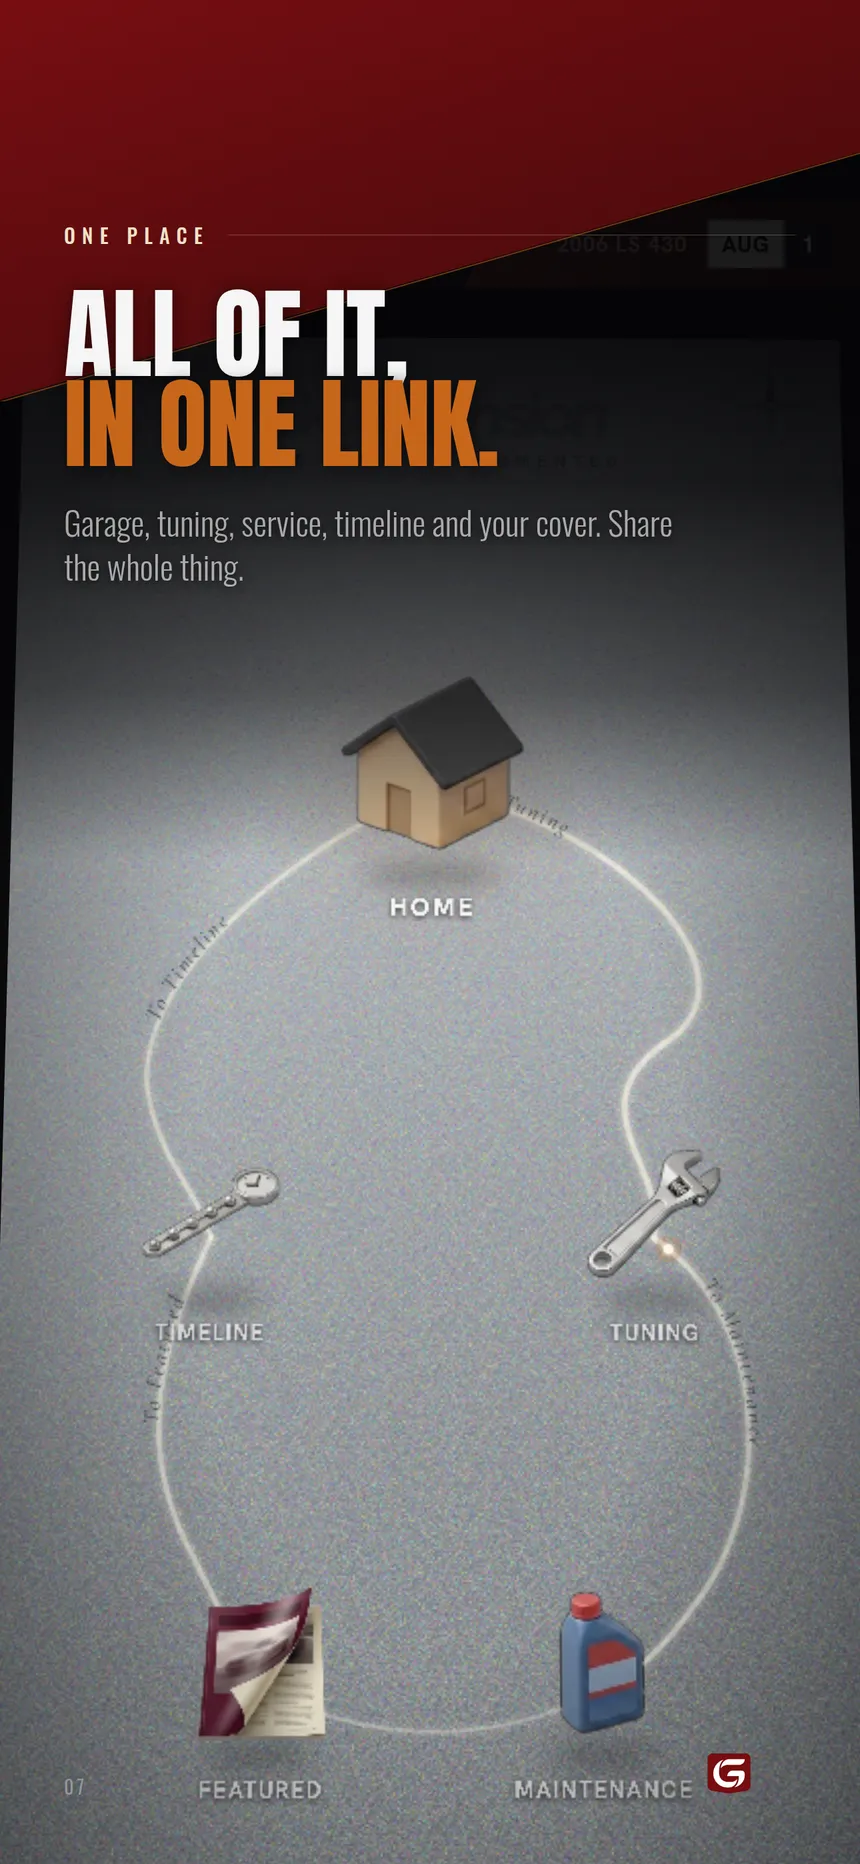
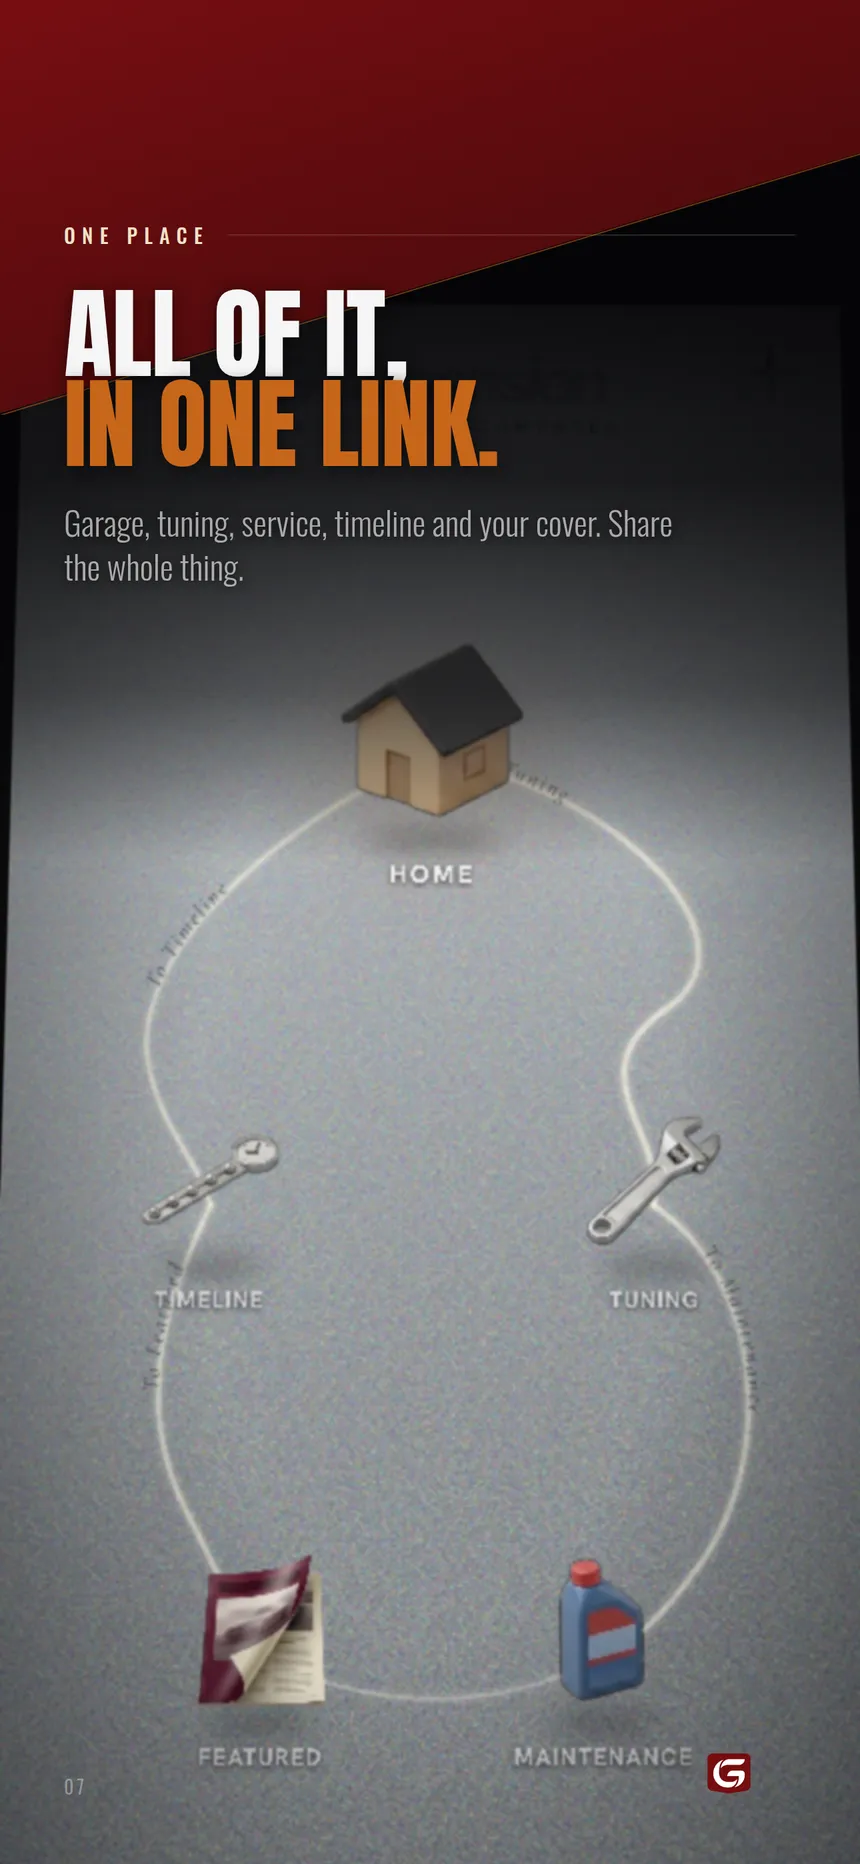
Store shots: one wedge geometry for the whole set, plus review fixes
The wedge is now a single fixed geometry in panel.css :root, with no per-panel
overrides. It used to vary on the theory that a "travelling" cut would tie the
run together; side by side, which is how the store actually shows them, that
just read as inconsistent. Anything that needs to dodge a busy corner now does
it with --shift on the artwork.

- 03 Service: art shifted DOWN so "+ Add Service" leaves the canvas. That also
  brought the app header down into view, where it poked out to the right of the
  wedge as a bright bar, so it is masked at z-index 1 (hidden behind the wedge
  on the left, reads as header darkness on the right). Same mask on 07.
- 04 Timeline: now the PUBLIC timeline, scrolled to the entry cards. The origin
  story was one long block of text; the cards show what the app actually keeps
  (mods, a detail, services, DIY guides), and the public route has no
  "+ Add Entry" button to design around. capture-store-shots.mjs gains scrollY,
  which finds the real scroll container rather than assuming the document.
- 06 Featured: the explanatory line moves ABOVE the cover photo, cut to one
  line at a smaller size because the gap there is only ~110px. The cover is
  nudged up, not down — pushing it down put its cream masthead below the
  wedge's right edge as a bright band. The brand mark moves up out of the
  cover's own INSIDE button and barcode.

Home map graininess is improved but not solved, and the two obvious fixes both
[…]

diff --git a/design/store-shots/panel.css b/design/store-shots/panel.css
@@ -13,10 +13,9 @@
    Featured. Cormorant appears on exactly one panel (the Timeline), matching
    the app's own rule that Cormorant carries the personal voice.
 
-   THE SPREAD: the burgundy wedge is not decoration, it travels. Each panel
-   sets --wedge-h and --wedge-rise so the cut walks down and across the set,
-   entering shallow on 01 and peaking mid-run. Viewed as a filmstrip the six
-   panels read as one continuous artwork rather than six posters.
+   THE WEDGE IS ONE FIXED GEOMETRY across the whole set (see :root). An earlier
+   version varied it per panel so the cut would "travel"; side by side, which is
+   how the store actually shows them, that just read as inconsistent.
    ════════════════════════════════════════════════════════════════════════ */
 
 * { margin: 0; padding: 0; box-sizing: border-box; }
@@ -29,10 +28,16 @@ html, body { background: #17181a; }
   --cavity: #050507;
   --ink: #f5f5f5;
 
-  /* Per-panel overrides. Defaults suit a full-bleed panel. */
-  --shift: 0px;         /* vertical pull on the captured screen */
-  --wedge-h: 344px;     /* wedge height at the LEFT edge */
-  --wedge-rise: 54%;    /* where the cut meets the RIGHT edge */
+  --shift: 0px;         /* per-panel vertical pull on the captured screen */
+
+  /* THE WEDGE IS FIXED FOR THE WHOLE SET. It used to vary per panel on the
+     theory that a "travelling" cut would tie the run together; in practice it
+     just looked inconsistent when the panels sit side by side, which is how the
+     store shows them. One geometry, no per-panel overrides. Anything that has
+     to dodge a busy corner does it with --shift on the artwork, not by
+     reshaping the wedge. */
+  --wedge-h: 620px;
+  --wedge-rise: 37%;
 }
 
 .canvas {
@@ -74,7 +79,7 @@ html, body { background: #17181a; }
   background: rgba(245,245,245,0.16);
 }
 
-/* ── The travelling wedge ────────────────────────────────────────────────── */
+/* ── The wedge ────────────────────────────────────────────────── */
 .wedge {
   position: absolute; left: 0; right: 0; top: 0; height: var(--wedge-h); z-index: 2;
   background: linear-gradient(160deg, var(--brand) 0%, var(--brand-dark) 78%, #3a0709 100%);

diff --git a/design/store-shots/panel-06.html b/design/store-shots/panel-06.html
@@ -11,16 +11,26 @@
      smallest wedge in the run and sets its one line in the cover's own dead
      band between photo and headline. */
   :root {
-    --wedge-h: 348px; --wedge-rise: 74%;
-    --type-top: 418px; --headline-size: 104px;
-    --deck-top: 1735px;
+    /* Nudged UP, not down. Pushing the cover down put its cream masthead below
+       the wedge's right-hand edge, where it poked out as a bright band. At -40
+       the masthead sits entirely under the wedge and the black gap above the
+       photo is free for the explanatory line. */
+    --shift: -40px;
+    --type-top: 285px; --headline-size: 92px;
+    --deck-top: 470px;
   }
+  /* One line only, and smaller: the gap between the headline and the top of the
+     cover photo is ~110px and a two-line deck ran straight through it. */
+  .deck-float { font-size: 40px; }
+  /* This panel's bottom-right corner is already occupied by the cover's own
+     INSIDE button and barcode, so the brand mark moves up out of them. */
+  .gmark-corner { bottom: 300px; }
 </style>
 </head>
 <body>
 <div class="canvas">
   <img class="art" src="raw/07-featured.png" alt="">
-  <div class="plate" style="left:246px; top:1300px; width:98px; height:44px; z-index:3;"></div>
+  <div class="plate" style="left:246px; top:1260px; width:98px; height:44px; z-index:3;"></div>
 
   <div class="wedge"></div><div class="wedge-edge"></div>
 
@@ -29,7 +39,7 @@
     <div class="headline">Your build, <span class="warm">on a cover.</span></div>
   </div>
 
-  <div class="deck-float" style="z-index:4">The app writes you a magazine cover from your own photos and specs.</div>
+  <div class="deck-float" style="z-index:4">A magazine cover, written from your own photos and specs.</div>
   <div class="numeral" style="z-index:5">06</div>
   <img class="gmark-corner" src="../../src/assets/logo/gdimensionG.webp" alt="">
 </div>

diff --git a/design/store-shots/panel-03.html b/design/store-shots/panel-03.html
@@ -10,19 +10,24 @@
   /* Shift puts the dated rows AND the services / total footer below the type,
      so the money is visible without captioning it. */
   :root {
-    --shift: -250px;
-    /* Shallower than its neighbours on purpose: the Maintenance screen has a
-       strong orange diagonal of its own, and a deep burgundy cut on top of it
-       made two diagonals fight for the same corner. */
-    --wedge-h: 520px; --wedge-rise: 46%;
+    /* Pushed DOWN, not up: at a negative shift the "+ Add Service" button sat in
+       the lower right. Positive shift carries it off the canvas while keeping
+       the dated rows and the services / total footer in view. */
+    --shift: 290px;
     --type-top: 320px; --headline-size: 150px;
-    --scrim-top: 260px; --scrim-h: 1120px;
+    --scrim-top: 250px; --scrim-h: 1150px;
   }
 </style>
 </head>
 <body>
 <div class="canvas">
   <img class="art" src="raw/06b-service.png" alt="">
+  <!-- The positive shift that carries "+ Add Service" off the bottom also
+       carries the app HEADER down into view, where it poked out to the right of
+       the wedge as a bright bar. Masked to cavity black at z-index 1, so it
+       hides behind the wedge on the left and reads as header darkness on the
+       right. -->
+  <div class="mask" style="left:0; right:0; top:222px; height:215px; z-index:1;"></div>
   <div class="type-scrim"></div>
   <div class="wedge"></div><div class="wedge-edge"></div>
 

diff --git a/design/store-shots/panel-07.html b/design/store-shots/panel-07.html
@@ -10,8 +10,7 @@
   /* Map shifted down so the HOME node clears the type block; all five
      destinations stay on the panel at native scale. */
   :root {
-    --shift: 300px;
-    --wedge-h: 600px; --wedge-rise: 38%;
+    --shift: 250px;
     --type-top: 330px; --headline-size: 150px;
     --scrim-top: 240px; --scrim-h: 1050px;
   }
@@ -20,6 +19,9 @@
 <body>
 <div class="canvas">
   <img class="art" src="raw/01-home.png" alt="">
+  <!-- App header, which sits below the wedge's right edge and read as a bright
+       bar. z-index 1 keeps it behind the wedge on the left. -->
+  <div class="mask" style="left:0; right:0; top:222px; height:200px; z-index:1;"></div>
   <div class="type-scrim"></div>
   <div class="wedge"></div><div class="wedge-edge"></div>
 

diff --git a/design/store-shots/panel-04.html b/design/store-shots/panel-04.html
@@ -10,8 +10,7 @@
   /* line-height raised on this headline only: at 0.90 the comma in
      "Your build," collided with the D of "chronicled" below it. */
   :root {
-    --shift: -420px;
-    --wedge-h: 670px; --wedge-rise: 32%;
+    --shift: 0px;
     --type-top: 350px; --headline-size: 150px;
     --scrim-top: 270px; --scrim-h: 1150px;
   }
@@ -20,8 +19,7 @@
 </head>
 <body>
 <div class="canvas">
-  <img class="art" src="raw/04-timeline.png" alt="">
-  <div class="plate" style="left:80px; top:calc(730px + var(--shift)); width:160px; height:105px; z-index:3;"></div>
+  <img class="art" src="raw/pub-timeline.png" alt="">
   <div class="type-scrim"></div>
   <div class="wedge"></div><div class="wedge-edge"></div>
 

diff --git a/design/store-shots/panel-05.html b/design/store-shots/panel-05.html
@@ -11,7 +11,6 @@
      scripts/render-build-report-page.mjs, rather than the screen you press to
      make one. The document is the product here, so the document is the art. */
   :root {
-    --wedge-h: 620px; --wedge-rise: 36%;
     --type-top: 340px; --headline-size: 140px;
     --scrim-top: 250px; --scrim-h: 1060px;
   }

diff --git a/design/store-shots/panel-02.html b/design/store-shots/panel-02.html
@@ -11,7 +11,6 @@
      the wheels and the coilovers all land below it at full size. */
   :root {
     --shift: -250px;
-    --wedge-h: 630px; --wedge-rise: 36%;
     --type-top: 340px; --headline-size: 150px;
     --scrim-top: 250px; --scrim-h: 1120px;
   }

diff --git a/design/store-shots/panel-01.html b/design/store-shots/panel-01.html
@@ -9,7 +9,6 @@
 <style>
   :root {
     --shift: -150px;
-    --wedge-h: 610px; --wedge-rise: 38%;
     --type-top: 330px; --headline-size: 158px;
     --scrim-top: 240px; --scrim-h: 1150px;
     --footer-top: 2268px;
